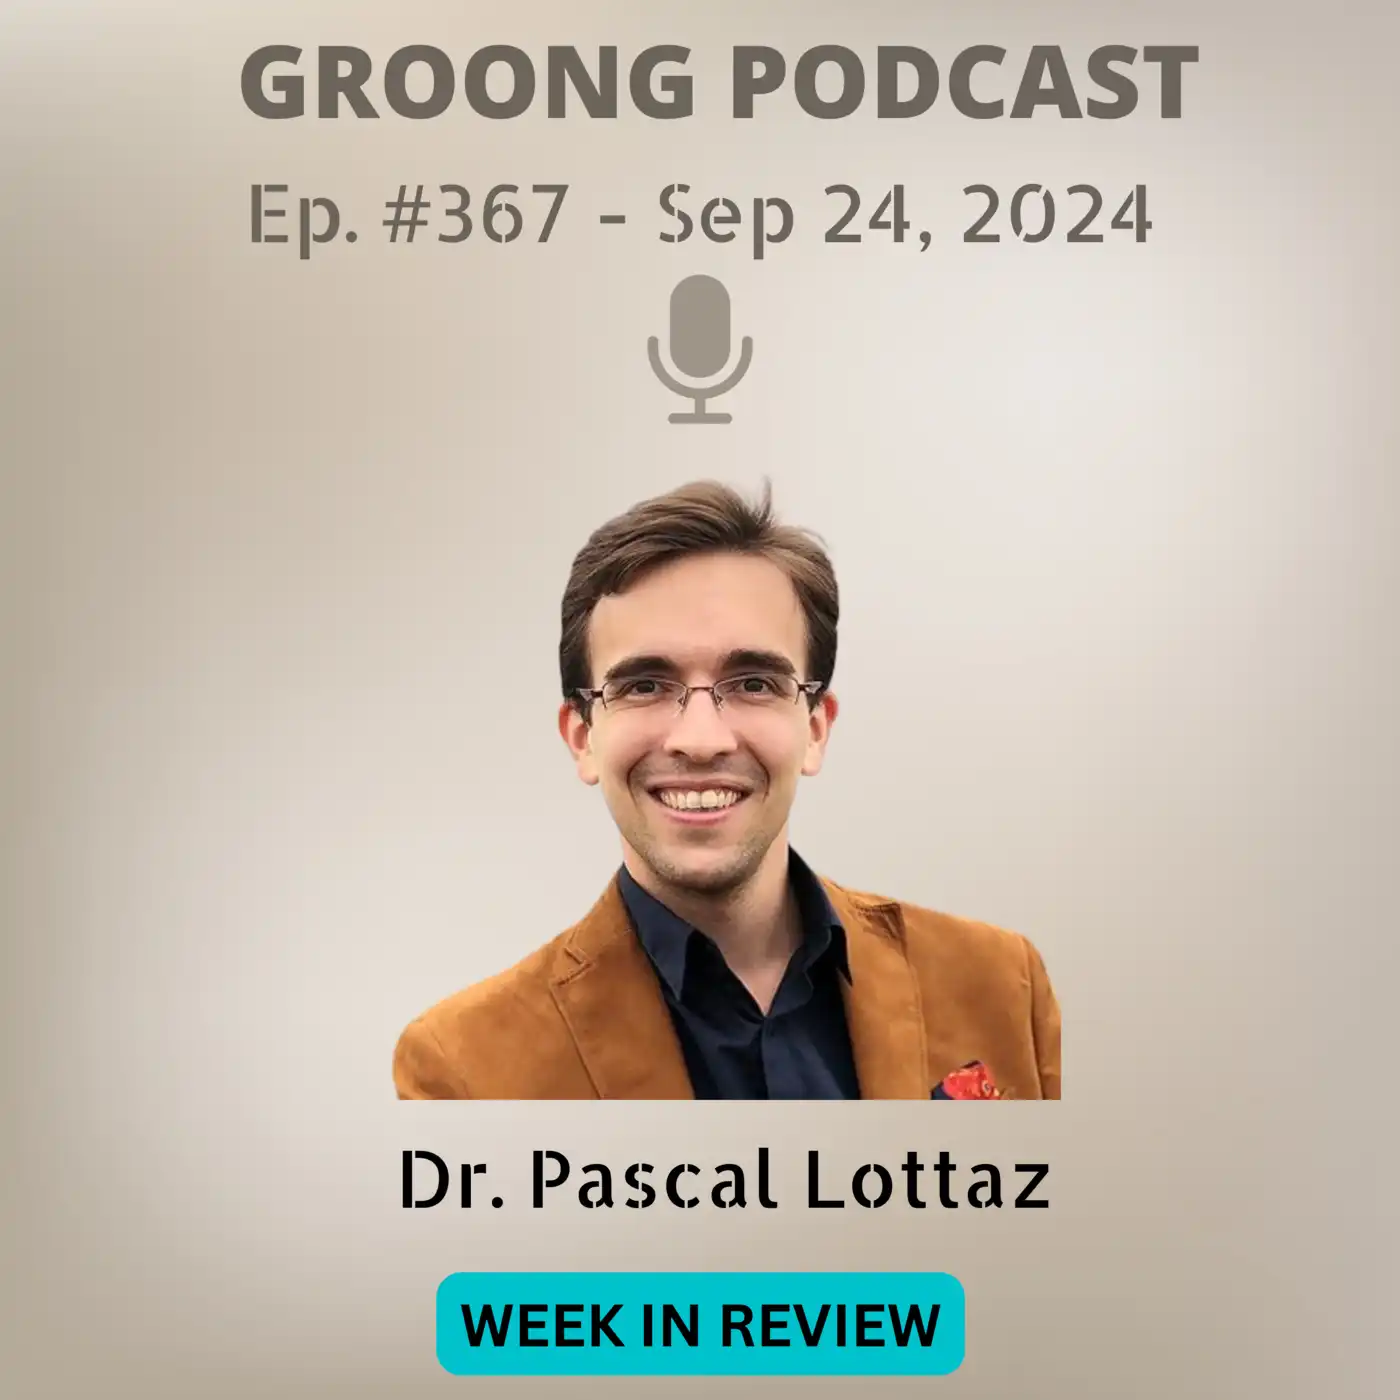
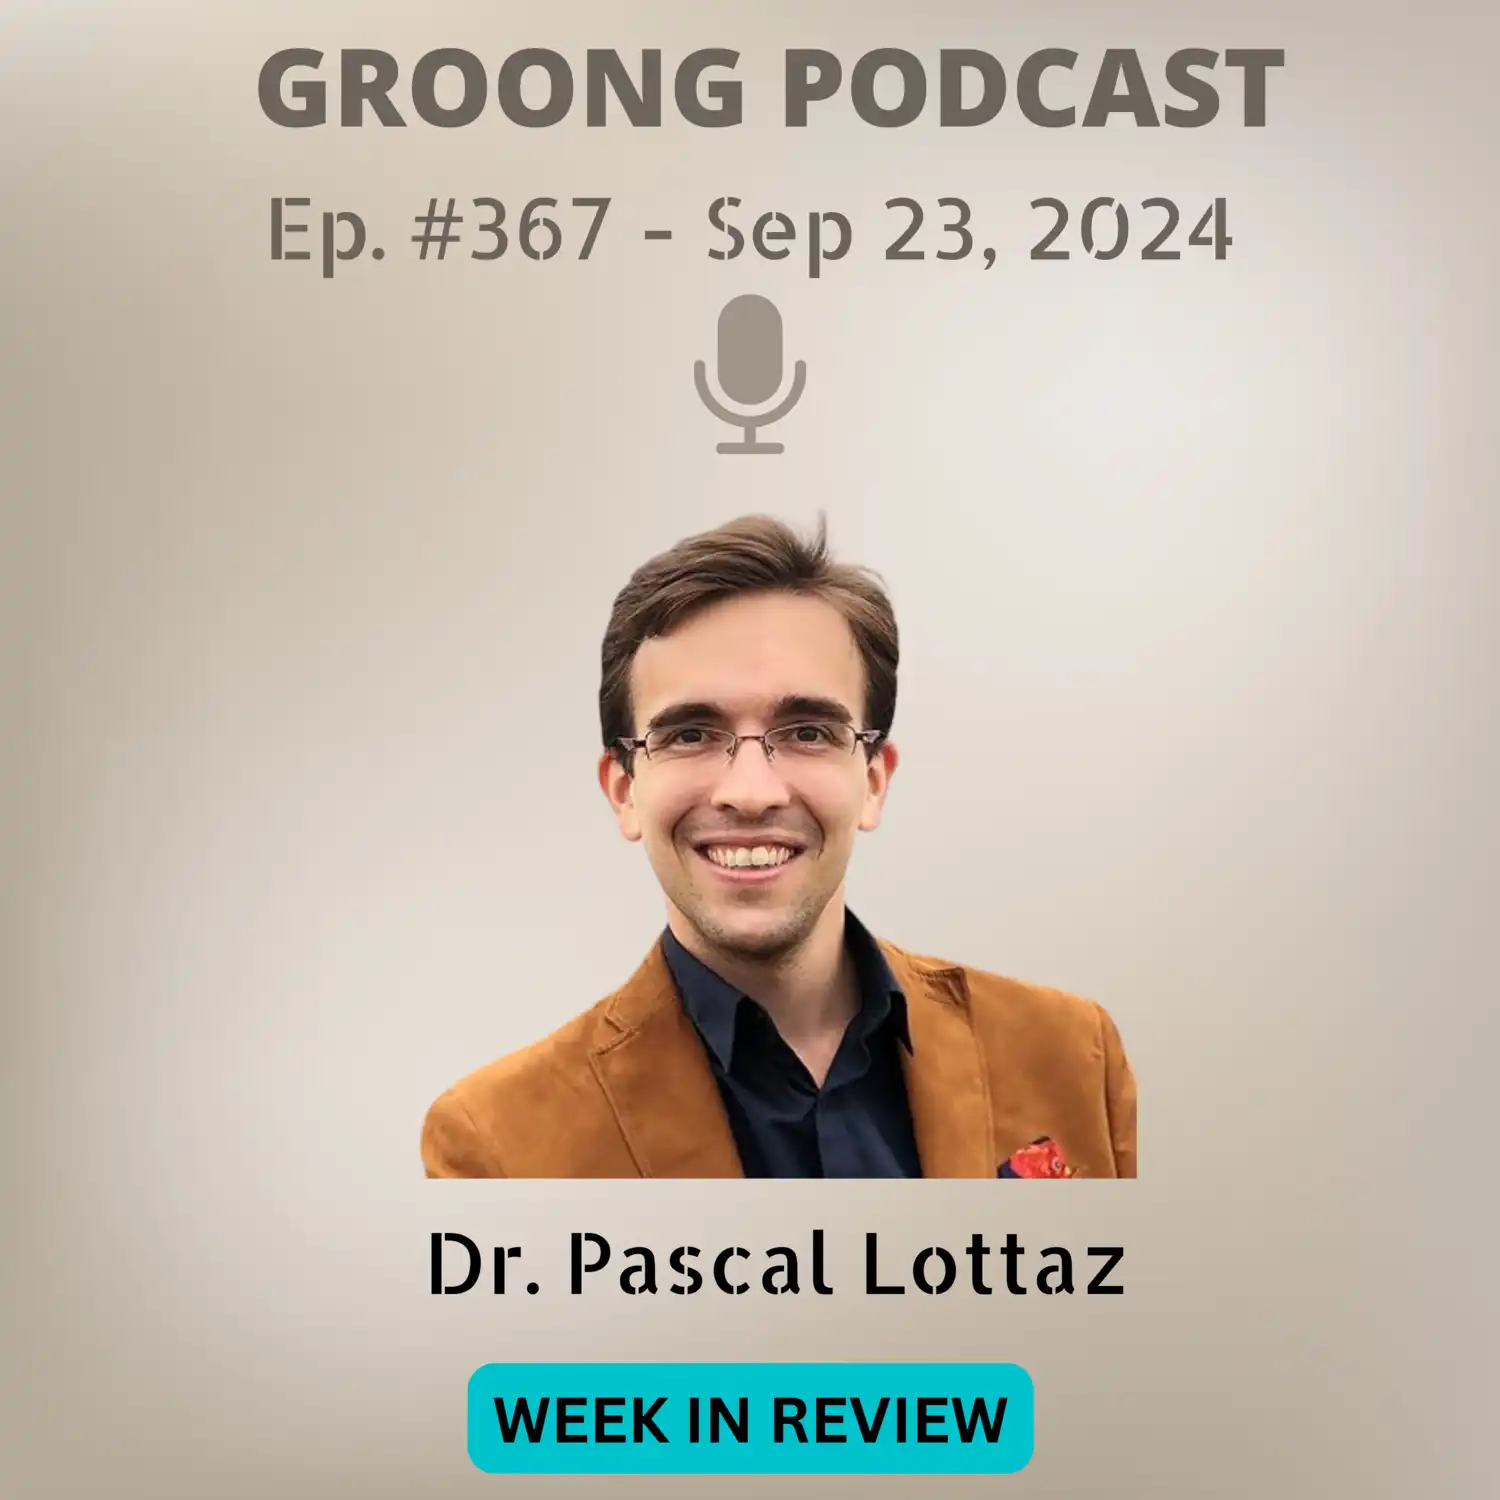
Pushing ep 367

diff --git a/content/episode/367-pascal-lottaz-neutrality-studies-armenia-multipolar-world.md b/content/episode/367-pascal-lottaz-neutrality-studies-armenia-multipolar-world.md
@@ -1,0 +1,150 @@
++++
+Date = 2024-09-24T00:00:00+04:00
+
+title = "Pascal Lottaz - Neutrality Studies, Armenia and the Incoming Multipolar World | Ep 367 - Sep 23, 2024"
+subtitle = "Conversations on Groong - 09/23/2024"
+author = "Armenian News Network - Groong"
+
+podcast_file = "15798689-pascal-lottaz-neutrality-studies-armenia-and-the-incoming-multipolar-world-ep-367-sep-23-2024.mp3"
+podcast_duration = "3262"
+podcast_bytes = "39181519"
+youtube = "tOEdvd2Gz_k"
+
+episode_image = "img/episode/367/thumbnail-367.webp"
+episode_banner = "img/episode/367/banner-367.webp"
+images = ["img/episode/367/banner-367.webp"]
+
+guests = ["plottaz"]
+hosts = ["hovik","asbed"]
+
+episode = "367"
+aliases = ["/367"]
+
+series = ["cog"]
+categories = ["Armenia", "Artsakh", "Nagorno Karabakh"]
+explicit = "no" # values are "yes" or "no"
+tags = ["Armenian News", "Neutrality Studies", "Pascal Lottaz", "Armenia", "Georgia", "EU", "Europe", "University of Kyoto", "Japan", "Tokyo", "Russia", "Ukraine", "Israel", "Supply Chain", "Cellphones", "Pagers", "Azerbaijan", "BRICS", "Non-Aligned Movement", "Territorial Integrity", "Self-Determination", "Multipolar World", "Eurasian Economic Union", "Hezbollah", "Cybersecurity", "De-dollarization"]
+
+Description = """
+
+#### Groong Links:
+* [linktr.ee/Groong](https://linktr.ee/groong)
+
+#### Guest:
+* [Dr. Pascal Lottaz](/guest/plottaz)
+
+#### Topics:
+* What is Neutrality Studies?
+* Rise of the Multi-Polar World
+
+Episode 367 | Recorded: September 18, 2024
+"""
+
++++
+
+# Neutrality in a Multipolar World
+
+## Neutrality Studies
+
+Since this is your first time with us, would you tell us about yourself, and the interests that have led you to the formal study of the concept of “Neutrality”?
+
+Your university in Japan, University of Kyoto, seems to be one of the few places around the world that has a formal neutrality studies program.
+
+**Question:**
+
+* What is neutrality and what is the theoretical basis for Neutrality Studies?
+    * When was the term introduced or coined?
+
+Let’s relate to an old saying attributed to Edmond Burke, that “the only thing necessary for evil to triumph in the world is for good men to do nothing”.
+
+
+* Simple Googling shows that the quote is misattributed to Burke, but the point remains the same.
+
+**Questions:**
+
+* Are you “neutral” if you sit by and watch your neighbors commit genocide?
+* How is neutrality different from “independence”?
+* What are your thoughts on the Non Aligned movement? 
+    * For many years, as part of the nonaligned movement, Azerbaijan was able to gather diplomatic [favor](https://www.mfa.gov.az/en/category/international-organisations/non-aligned-movement-nam#:~:text=On%20November%2018%2C%202021%2C%20within,President%20of%20the%20Republic%20of) from other members of that organization. Can one argue that simply by voting with Azerbaijan, in what ended up today the ethnic cleansing of Artsakh, non-aligned states were party to Azerbaijan’s policies?
+        * The 2012 ministerial meeting mentioned territorial integrity and non-use of force.
+        * Since that meeting, subsequent resolutions or meetings seem to have focused simply on observing Azerbaijan’s territorial integrity at the detriment of all other well-known principles such as self-determination and non-use of force.
+    * This is perhaps the equivalent of the “Not my war” stance. But is it really “neutral”?
+
+Specifically when it comes to international principles considered to be equal, yet within the context of specific conflicts, they are diametrically opposed. For example: territorial integrity vs. right to self-determination.
+
+**Questions:**
+
+* Where does “neutrality” stand between right and wrong?
+
+
+## Rise of Multipolar World
+
+There’s a lot of talk about the rise of the multipolar world, but I haven’t seen a clear definition of what it means.
+
+**Questions**:
+
+* What does a multipolar world mean? What will be the key attributes of a multipolar world? Will there be more neutrality?
+    * … more or less peace?
+    * … more liberal or traditional values? 
+
+
+### Small States A Multipolar World
+
+Since we’re Armenian, let’s talk a little about Armenia. In a previous discussion, with our guest Glenn Diesen, we asked whether the Nagorno-Karabakh war was a trap set up for Russia, given what was coming in Ukraine. He said that if Russia took sides in the fighting, it would indeed be a trap.
+
+**Questions**:
+
+* Do you agree or disagree?
+* What drove Russia’s policies at the time and what is driving them now?
+
+Since then, Pashinyan has taken up the dramatic step of moving Armenia away from Russia’s orbit. Frequently playing on the emotions of the populace, who truly can’t forgive Russia’s inaction in Karabakh and since then. 
+
+NOTE: Some would point out that Pashinyan always had anti-Armenian sentiment.
+
+This policy has been cheered by a coterie of western-funded academics. Just today, an item appeared in the National Interest, [penned](https://nationalinterest.org/feature/armenia-and-us-election-212775) by Anna Ohanian and Nerses Kopalyan, with the sub-headline that says it all: **_“Armenia can offer the United States a foothold in Russia’s backyard.”_**
+
+Just that statement itself seems to offer Armenia to be used as a tool in the fight between Russia and the West. Many of our analysts have said as much when addressing the topic.
+
+**Question**:
+
+* What is the upside of Armenia becoming a US “foothold” against Russia?
+
+
+### Institutions of the Multipolar World
+
+The logic of multipolarity seems to dictate less global institutionalism and more local and regional approaches, or bilateral approaches. At least in the case of the UN and other similar organizations, we’re seeing that their role is diminishing to the point of irrelevance.
+
+But at the same time, we’re seeing reorganizations and growth of other organizations, such as BRICS, SCC and the Eurasian Economic Union.
+
+**Questions**:
+
+* Can you tell us what is the role of BRICS and SCC? Are they geopolitical organizations or geoeconomic in nature?
+* Any predictions about the upcoming BRICS summit that will take place in Kazan in October?
+* There’s a lot of talk about a common BRICS currency that might be established. Can you tell us your thoughts about this?
+    * Or is it about purely de-dollarization and trading in local currencies?
+* What institutions are still missing to support the multipolar world?
+
+### Supply Chain Security in the Multipolar World
+
+With yesterday’s “pager attack” by Israel, a new rubicon was crossed in our opinion, in terms of what will be permissible for some countries and threats that smaller and less technically sovereign countries will need to consider.
+
+Just briefly, it appears that Israel was able to either at manufacture time or during shipment time, implant explosives into thousands of pagers, allegedly destined for use by Hezbollah in Lebanon. Not just pagers, but it appears that some cell phones, communications radios, and even solar panels were reported to be rigged in a similar manner. There were many deaths and thousands of injuries, including innocent bystanders and even children.
+
+Regardless of one’s stance on the conflict in the Middle East, this attack raises many questions about the security of basic technology and any other goods that countries are not self-reliant on. 
+
+We know there are only a handful of countries that can manufacture essential technologies from cell phones to networking equipment.
+
+Questions:
+
+* How do regular (medium and small) countries get assured that their networking equipment doesn’t have a backdoor for the NSA or that their cell phones don’t have explosives in them?
+* Is there a risk to communications networks being segmented as well?
+    * We have an example of the Chinese Firewall and an “internet” within China that is local only to that country.
+    * Will Russia eventually set up its own internet?
+    * Is there anyone thinking how these “regional” internets will be interconnected, especially for collaboration?
+        * For example, will Russia allow residents in its orbit a more “privileged” access, whether it is for commerce or other types of collaboration?
+
+# Wrap-up
+
+That’s our [show](https://podcasts.groong.org/)! We hope you found it useful. Please find us on [Social Media](https://lintr.ee/groong) and follow us everywhere you get your Armenian news.
+
+Thanks to **Laura Osborn** for the music on our podcasts.
